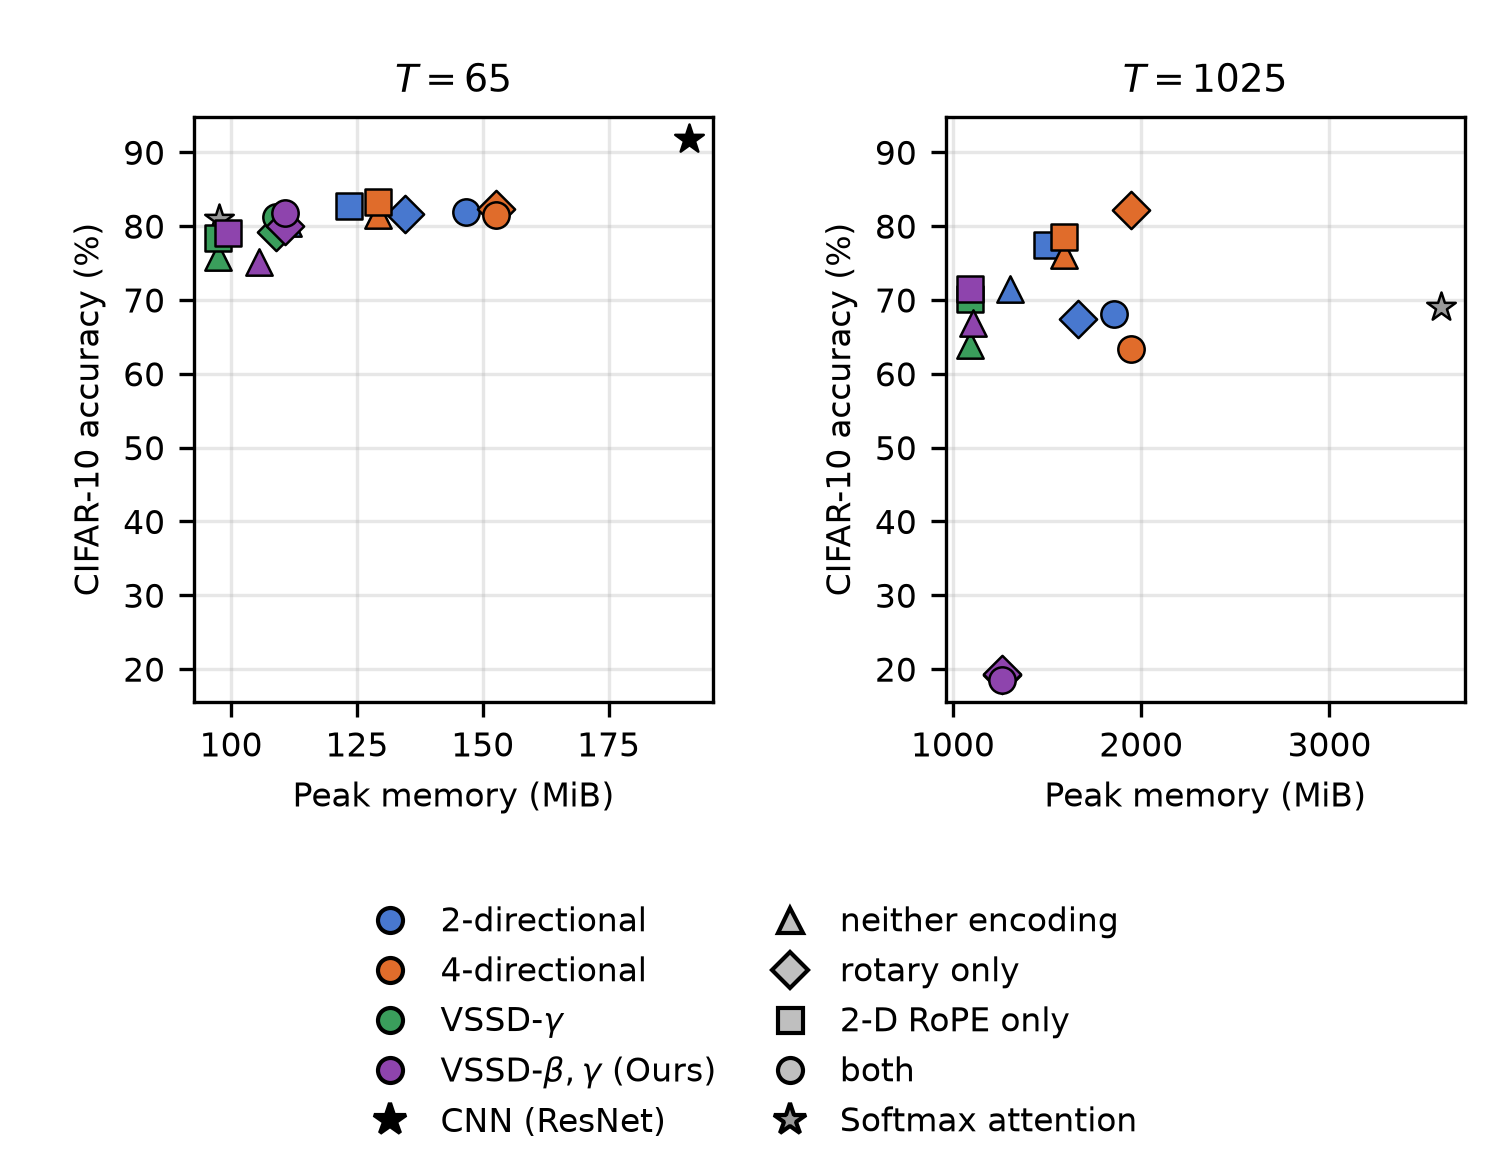
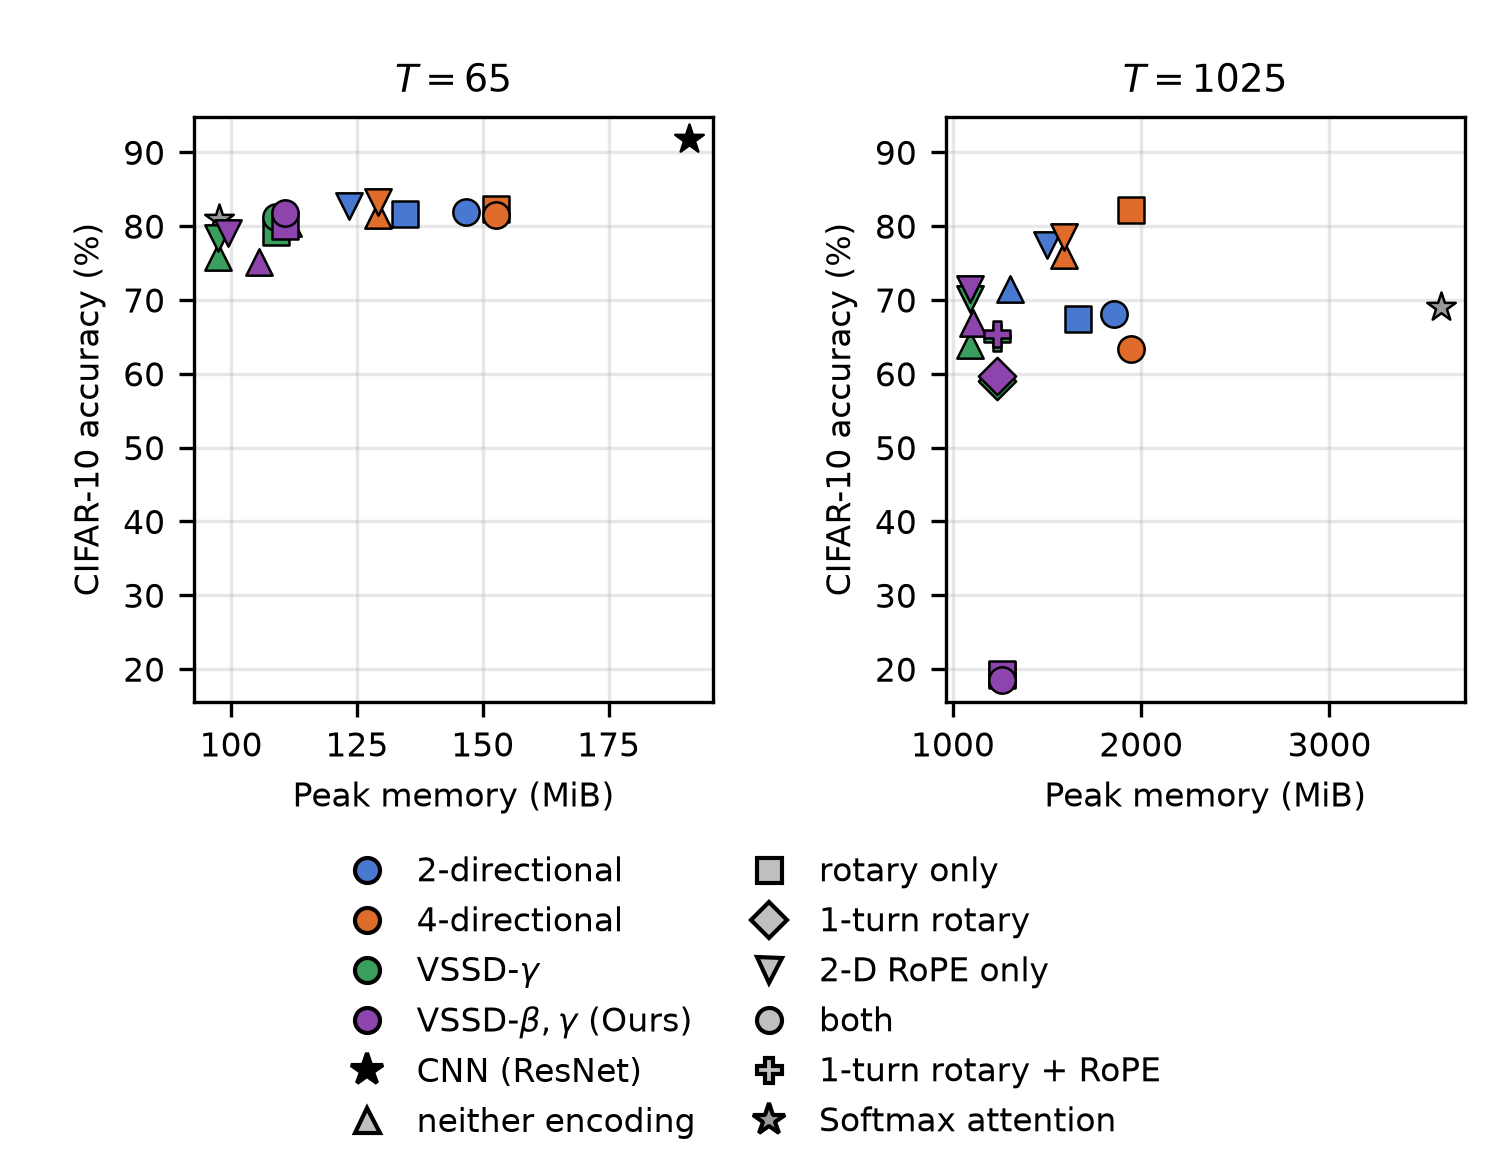
plot: marker family that shows how the encodings relate, and plot the 1-turn cells
Shapes now carry the relationship rather than being arbitrary: square is the rotary, a
square turned 45 degrees is the same rotary with its spread pinned, and the two triangles
are the two single-encoding ends -- up for neither, down for 2-D RoPE.

  neither ^   rotary [] (was diamond)   1-turn rotary <> (was down-triangle)
  both    o   2-D RoPE v (was square)   1-turn + RoPE +

The repair cells are drawn now instead of table-only, which needed the legend to hold six
encodings rather than four.

Two layout problems that took three attempts. Six encodings in one column makes the legend
six rows deep, and the legend is the tall part of this figure: at six rows the float
exceeds one text-height, LaTeX gives it a page of its own, the paper goes 19 -> 22 pages
and the page number lands on top of the caption. Splitting the encodings across two columns
of three holds it at four rows, the height it had before the repair cells existed.

Then the grouping came out scrambled -- CNN sitting among the operators -- because
_legend_handles was called with grouped_cols=(legend_cols == 3), so asking for four columns
silently took the ungrouped branch. Now >= 3.

Verified on the rendered page, not the source: 19 pages, no overfull boxes, each legend
column holding one category.

diff --git a/scripts/make_ablation_table.py b/scripts/make_ablation_table.py
@@ -50,14 +50,8 @@ NONE, ROT, ROPE, BOTH = "---", "rotary", "2-D RoPE", "both"
 # is nothing to repair.
 ROT1, BOTH1 = "rotary (1 turn)", "both (1 turn)"
 
-# Table only, not plotted. The plot is the 4x4 factorial of operator against encoding, and
-# these two are a repair experiment on one cell of it rather than another level of the same
-# factor -- they exist only at T=1025, only for the VSSD operators. Drawing them would add
-# two marker shapes to a legend built around that factorial, and leaving them unlabelled
-# would be worse still.
-PLOT_EXCLUDED_ENC = {ROT1, BOTH1}
 
-ENC_MARKERS = {NONE: "^", ROT: "D", ROPE: "s", BOTH: "o", ROT1: "v", BOTH1: "P"}
+ENC_MARKERS = {NONE: "^", ROT: "s", ROPE: "v", BOTH: "o", ROT1: "D", BOTH1: "P"}
 ENC_LABELS = {NONE: "neither encoding", ROT: "rotary only",
               ROPE: "2-D RoPE only", BOTH: "both",
               ROT1: "1-turn rotary", BOTH1: "1-turn rotary + RoPE"}
@@ -265,13 +259,21 @@ def _legend_handles(grouped_cols: bool = False) -> list[Line2D]:
         return Line2D([], [], linestyle="none", marker="none", label=" ")
 
     ops = [mark("o", OP_COLOURS[k], 6, OP_LABELS[k]) for k in OP_COLOURS]
-    encs = [mark(ENC_MARKERS[k], "0.75", 6, ENC_LABELS[k]) for k in (NONE, ROT, ROPE, BOTH)]
+    encs = [mark(ENC_MARKERS[k], "0.75", 6, ENC_LABELS[k])
+            for k in (NONE, ROT, ROT1, ROPE, BOTH, BOTH1)]
     bases = [mark("*", v, 8, k) for k, v in BASE_COLOURS.items()]
 
     if grouped_cols:
-        rows = max(len(ops), len(encs), len(bases))
+        # Encodings split across two columns rather than one. Six of them in a single
+        # column makes the legend six rows deep, and the legend is the tall part of this
+        # figure: at six rows the float exceeds one text-height, LaTeX gives it a page of
+        # its own and the page number collides with the caption. Two columns of three
+        # keeps it at four rows, the same height as before the repair cells were added.
+        half = (len(encs) + 1) // 2
+        cols = [ops, encs[:half], encs[half:], bases]
+        rows = max(len(c) for c in cols)
         pad = lambda xs: xs + [blank()] * (rows - len(xs))  # noqa: E731
-        return pad(ops) + pad(encs) + pad(bases)
+        return [h for c in cols for h in pad(c)]
     # Baselines split one per column to keep the two columns equal length; sliced
     # rather than indexed so a third baseline would join a column, not vanish.
     return ops + bases[:1] + encs + bases[1:]
@@ -301,8 +303,7 @@ def write_plot(rows, out: Path = None, fig_w: float = None,
                for idx in (0, 1)
                for op, enc, a, b in rows
                for d in ((a, b)[idx],)
-               if d is not None and not (idx == 1 and op in TOKEN_FREE)
-               and enc not in PLOT_EXCLUDED_ENC]
+               if d is not None and not (idx == 1 and op in TOKEN_FREE)]
 
     # One accuracy scale across both panels: the panels exist to be compared, and
     # per-panel autoscaling silently rescales that comparison -- a point sitting
@@ -335,7 +336,7 @@ def write_plot(rows, out: Path = None, fig_w: float = None,
     # the FIG_W == \linewidth point-for-point match every font size above relies
     # on. 2 columns fits inside the subplots' own width, so nothing overflows and
     # bbox_inches=None (below) saves at exactly figsize, no surprise rescale.
-    fig.legend(handles=_legend_handles(grouped_cols=legend_cols == 3), loc="lower center", ncol=legend_cols, fontsize=FONT_PT,
+    fig.legend(handles=_legend_handles(grouped_cols=legend_cols >= 3), loc="lower center", ncol=legend_cols, fontsize=FONT_PT,
                frameon=False, bbox_to_anchor=(0.5, 0.0),
                columnspacing=1.2, handletextpad=0.5)
     fig.subplots_adjust(left=0.13, right=0.98, top=0.90, bottom=bottom, wspace=0.45)
@@ -375,7 +376,7 @@ def main() -> int:
         # reserved height, and giving the space back to the axes both un-squashes
         # the panels and shortens the float.
         write_plot(rows, args.paper_out / "fig_cifar_mem_acc.pdf", PAPER_FIG_W,
-                   fig_h=2.7, legend_cols=3, bottom=0.50)
+                   fig_h=2.7, legend_cols=4, bottom=0.50)
     if missing:
         print("\nCells still unmeasured (printed as '--'):")
         for m in missing:
